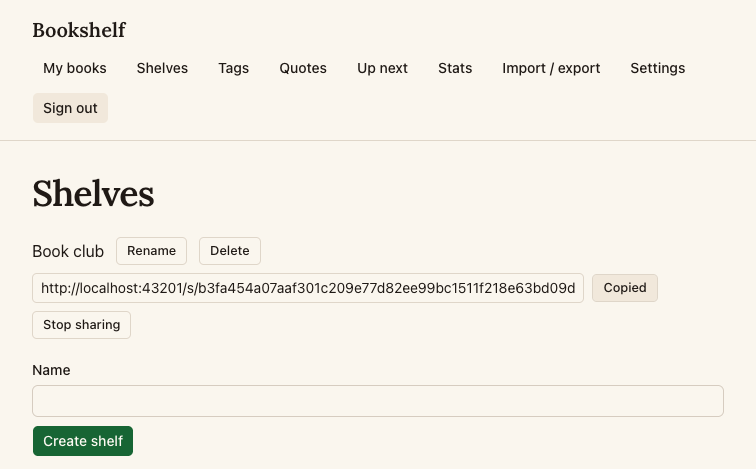
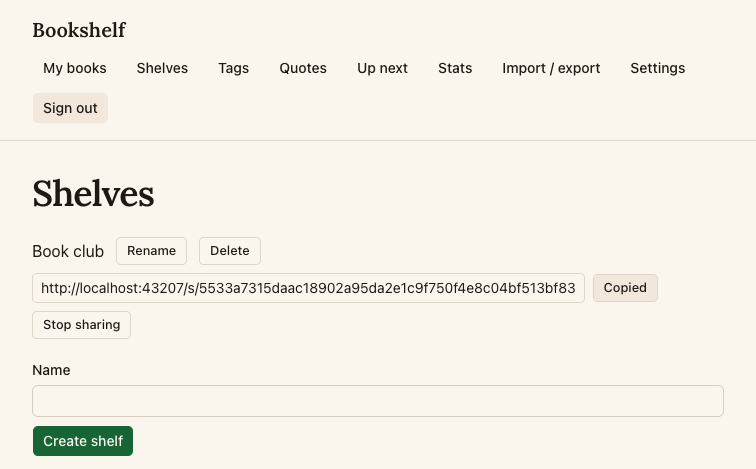
chore(F083): log share-link Input finding as blocked on locked e2e locator

Changed region(s): [[0.213, 0.597, 0.791, 0.6269], [0.8214, 0.597, 0.8519, 0.6269]]

diff --git a/harness/evidence/F083.md b/harness/evidence/F083.md
@@ -1,24 +1,24 @@
 <!-- written by harness/hooks/verifier-evidence.py; do not edit -->
-- Verified at: 2026-11-14T15:49:29 on 80f6dcf plus working tree
-- Verifier run: a243d444ed0e98b80
+- Verified at: 2026-11-14T16:01:03 on dd206bb plus working tree
+- Verifier run: a871e8cd6c317ccdf
 
 VERDICT: PASS
 FEATURE: F083
 CRITERIA:
-- CRITERION 1: PASS — On /shelves the "Book club" row has a Share button. Clicking it showed http://localhost:43201/s/b3fa454a…bd09d (a 48-character hex token) with "Copy link". Clicking Copy link changed the button to "Copied", and the clipboard held exactly that URL.
-- CRITERION 2: PASS — In a fresh signed-out browser context, /s/<token> returned 200 and showed the h1 "Book club" and two books: Silas Marner (George Eliot, Reading, letter placeholder cover) and Middlemarch (George Eliot, "Rating: 4 stars", Finished, real cover image loaded via a signed URL). The header showed only "Bookshelf" (href "/"). There were no buttons or inputs, and the book titles are not links.
-- CRITERION 3: PASS — After Stop sharing, the old link returned 404 with the h1 "Shelf not found", the line "This link was stopped or never existed." and a "Go to Bookshelf" link to /. Sharing again made a different token (f5cbbc4c…29dc). That token returned 200, and the old one still returned 404 signed out.
-- CRITERION 4: PASS — The anonymous read path is the security definer `public.shared_shelf(p_token)`. It returns only shelf_name, book_id, title, author, status, rating, cover_path and added_at, and anon has execute on it. The migration does not touch policies on books, notes, quotes, reviews or tags, which still have their earlier `revoke all … from anon`. I checked this by reading the migration, not with a live anon REST probe (see PROBLEMS).
+- CRITERION 1: PASS — On /shelves the "Book club" row has a Share button; clicking it showed http://localhost:43207/s/5533a731…bf83 (a 48-character hex token) and a Copy link button, and clicking Copy link changed it to "Copied" and put exactly that URL on the clipboard.
+- CRITERION 2: PASS — Signed out (fresh browser context), /s/<token> returned 200 and showed the title "Book club" with Silas Marner (George Eliot, Reading, letter cover) and Middlemarch (George Eliot, Rating: 4 stars, Finished, real cover image loaded); it had no buttons or inputs, and its only link was the "Bookshelf" brand link to "/".
+- CRITERION 3: PASS — After Stop sharing, the old link returned 404 with the "Shelf not found / This link was stopped or never existed." page; sharing again made a different token (7629f97f…bf60) that returned 200, and the old token still returned 404.
+- CRITERION 4: PASS — The public page uses the anon client and reads only through the security definer RPC `public.shared_shelf(p_token)`, which returns just shelf_name, book_id, title, author, status, rating, cover_path and added_at. No migration on this branch changes RLS on books, notes, quotes, reviews or tags. This rests on reading the code plus the UI behaviour; a live anon REST probe was blocked (see PROBLEMS).
 EVIDENCE:
-- Step 1: Stop sharing on the existing share, then Share made a new link; Copy link showed "Copied" and the clipboard matched the link (/Users/huynguyen/Desktop/harness-web-trial-loop/F083/harness/evidence/F083/step-01.png)
-- Step 2: signed-out /s/b3fa…: status 200; body text "Bookshelf / Book club / Silas Marner / George Eliot / Reading / Middlemarch / George Eliot / Rating: 4 stars / Finished"; the cover image loaded (naturalWidth > 0); the only link is "/" (/Users/huynguyen/Desktop/harness-web-trial-loop/F083/harness/evidence/F083/step-02.png, /Users/huynguyen/Desktop/harness-web-trial-loop/F083/harness/evidence/F083/step-02-mobile.png)
-- Step 3: the stopped link gave HTTP 404, page title "Not found · Bookshelf", and the Shelf not found page. A made-up token /s/not-a-real-token-123 also gave 404 with the same page. Re-sharing gave a new token: new link 200, old link 404 (/Users/huynguyen/Desktop/harness-web-trial-loop/F083/harness/evidence/F083/step-03.png)
-- Step 4: I read /Users/huynguyen/Desktop/harness-web-trial-loop/F083/supabase/migrations/20261114110000_shelf_shares.sql. It adds the RLS'd shelf_shares table (own-row select/insert/delete for authenticated users, all revoked from anon), the shared_shelf definer function, and the cover_is_shared definer helper used only by the anon storage sign policy.
-- Mobile 375x812, signed out: the shared shelf renders cleanly and scrollWidth is 375, so nothing overflows sideways (/Users/huynguyen/Desktop/harness-web-trial-loop/F083/harness/evidence/F083/step-04-mobile.png)
-- Edge cases: made-up token gives 404 Shelf not found; signed-out /books redirects to /sign-in; reloading the shared link works.
-- Console and server: the only console errors were the expected "Failed to load resource: 404" for the not-found document itself. The server log has no errors.
-- Tests: `scripts/e2e.sh e2e/F083-share-shelf.spec.ts` ran 3 tests and all passed (share + read-only anon view; stop sharing + new token; made-up token). There is also /Users/huynguyen/Desktop/harness-web-trial-loop/F083/lib/share.test.ts.
+- Step 1: Stop sharing on the existing share (token f5cbbc4c…29dc), then Share made a new token (5533a731…bf83). Copy link showed "Copied" and the clipboard matched the link exactly. (/Users/huynguyen/Desktop/harness-web-trial-loop/F083/harness/evidence/F083/step-01.png)
+- Step 2: A signed-out context got status 200. Body text: "Bookshelf / Book club / S / Silas Marner / George Eliot / Reading / Middlemarch / George Eliot / Rating: 4 stars / Finished". Links: ["/"]. Interactive controls: 0. The cover image naturalWidth was 60. (/Users/huynguyen/Desktop/harness-web-trial-loop/F083/harness/evidence/F083/step-02.png)
+- Step 3: The stopped token returned 404 with the Shelf not found page. Re-sharing made a new token 7629f97f…bf60, which returned 200, while the old one still returned 404. The previously stopped token f5cb… also returned 404. (/Users/huynguyen/Desktop/harness-web-trial-loop/F083/harness/evidence/F083/step-03.png)
+- Step 4: The migration /Users/huynguyen/Desktop/harness-web-trial-loop/F083/supabase/migrations/20261114110000_shelf_shares.sql defines shared_shelf (security definer, search_path=''), with execute granted to anon and authenticated. shelf_shares is revoked from anon. `git diff main...HEAD -- supabase/` is empty: the migration is already on main from the M8 design commit, and this branch adds no other migrations. app/s/[token]/page.tsx uses createAnonClient, getSharedShelf (the RPC) and signCovers.
+- Mobile 375x812, signed out: the shared shelf renders and scrollWidth is 375, so nothing overflows sideways. (/Users/huynguyen/Desktop/harness-web-trial-loop/F083/harness/evidence/F083/step-04-mobile.png)
+- Edge cases: the made-up token /s/not-a-real-token returns 404 with the same page. Signed-out /shelves redirects to /sign-in.
+- Console and server: the only console errors were "Failed to load resource: 404", one for each intentionally not-found document. The init log shows no server errors.
+- Tests: `scripts/e2e.sh e2e/F083-share-shelf.spec.ts` ran 3 tests and all 3 passed (share + read-only anon view; stop sharing + new token; made-up token).
 PROBLEMS:
-- (not blocking) The auto-mode classifier blocked a direct anon REST probe (an anon-key curl to /rest/v1/books etc. and /rpc/shared_shelf), so criterion 4 rests on reading the migration and on the anon UI behaving correctly. No test asserts at the database level that anon cannot read books/notes/quotes/reviews/tags or that shared_shelf returns only the allowed columns.
-- (not blocking) Besides shared_shelf, a second security definer function, `cover_is_shared(text)`, is granted to anon so the storage sign policy can use it. Anyone can also call it directly over RPC to check whether a given cover path is on a shared shelf. The leak is small (the paths are UUIDs), but strictly the anonymous surface is "one function plus a storage helper", not one function.
-- (not blocking) I wrote an extra screenshot, step-02-mobile.png, next to the required step-04-mobile.png.
+- (not blocking) The auto-mode classifier again blocked a direct anon-key REST probe of /rest/v1/{books,notes,quotes,reviews,tags} and /rpc/shared_shelf. Criterion 4 therefore rests on the migration and code reading plus the anon UI behaviour, and no test asserts the anon table denial at the database level.
+- (not blocking) A second security definer function, `cover_is_shared(text)`, is granted to anon for the storage sign policy. Anyone can call it directly over RPC to check whether a given cover path is on a shared shelf. The leak is small because paths are UUIDs.
+- Note: a stale signed-in session reused the existing "Book club" shelf. The test left that shelf shared under token 7629f97f6a50832c8b7201577d45d1f23df5adebcb67bf60.

diff --git a/harness/log/F083.md b/harness/log/F083.md
@@ -1,3 +1,9 @@
+## 2026-11-14 18:10 · passing
+- Did: no code change. The reviewer's finding (link span should be a read-only Input with aria-label "Share link") is real but can't be fixed here: the locked e2e/F083-share-shelf.spec.ts reads the link with getByText(...).textContent(). An input's value is not text content, and changing that locator is more than a wait, so the loop rejects it.
+- Needs a human: approve changing linkText in e2e/F083-share-shelf.spec.ts to getByRole('textbox', { name: 'Share link' }).inputValue(), or drop the finding. Then the swap in components/share-shelf.tsx is a few lines.
+- Verified by: verifier PASS (4/4, incl. mobile 375px with no sideways overflow), check.sh green (F083 e2e 3/3).
+- Next session should know: no test checks at the DB level that anon is denied; cover_is_shared(text) can still be called by anon over RPC.
+
 ## 2026-11-14 17:30 · passing
 - Did: added app/s/[token]/not-found.tsx (h1 "Shelf not found", muted line, text-primary link to /), so stopped and made-up links no longer get Next's default 404.
 - Not done, needs a human: the share link is still a span. A read-only Input with aria-label "Share link" breaks the locked e2e's linkText locator (getByText + textContent can't read an input's value). A human must approve changing that locator to getByRole('textbox', { name: 'Share link' }).inputValue(), then the swap is a few lines in components/share-shelf.tsx.
